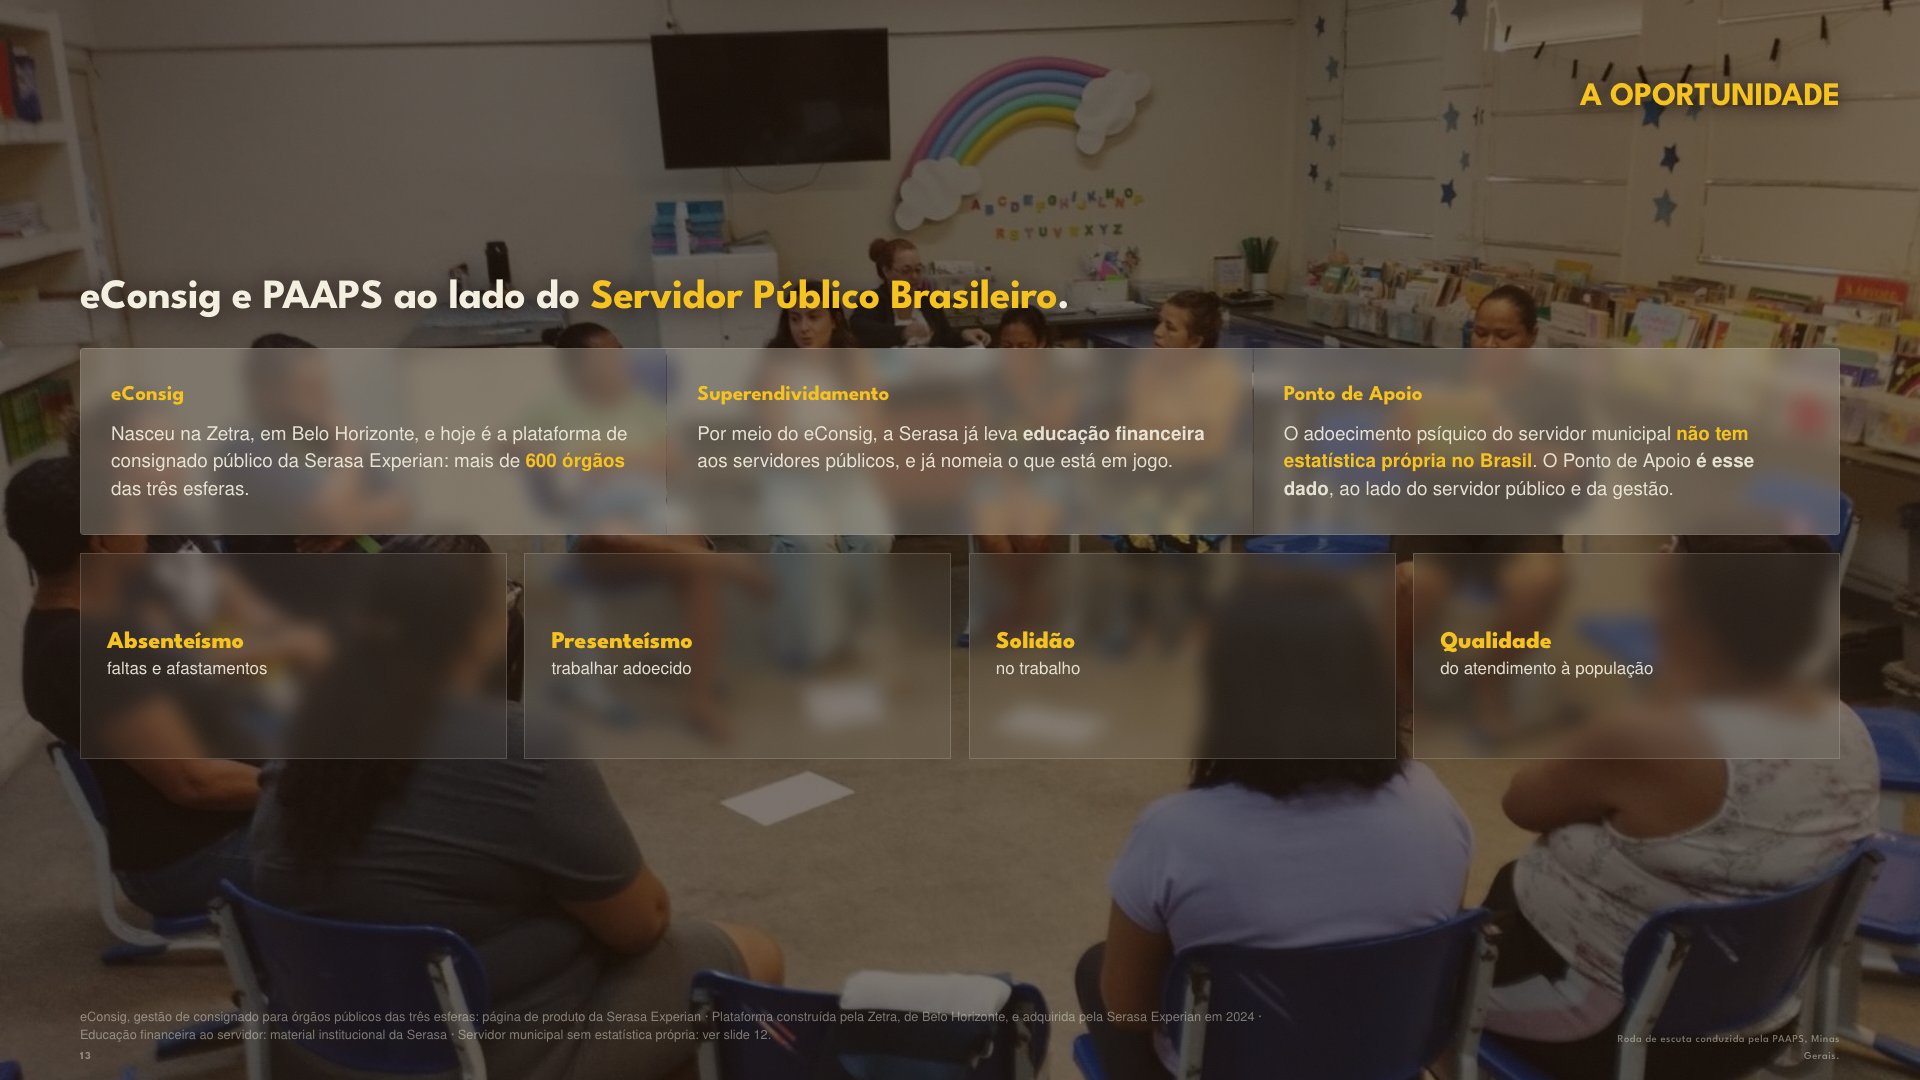
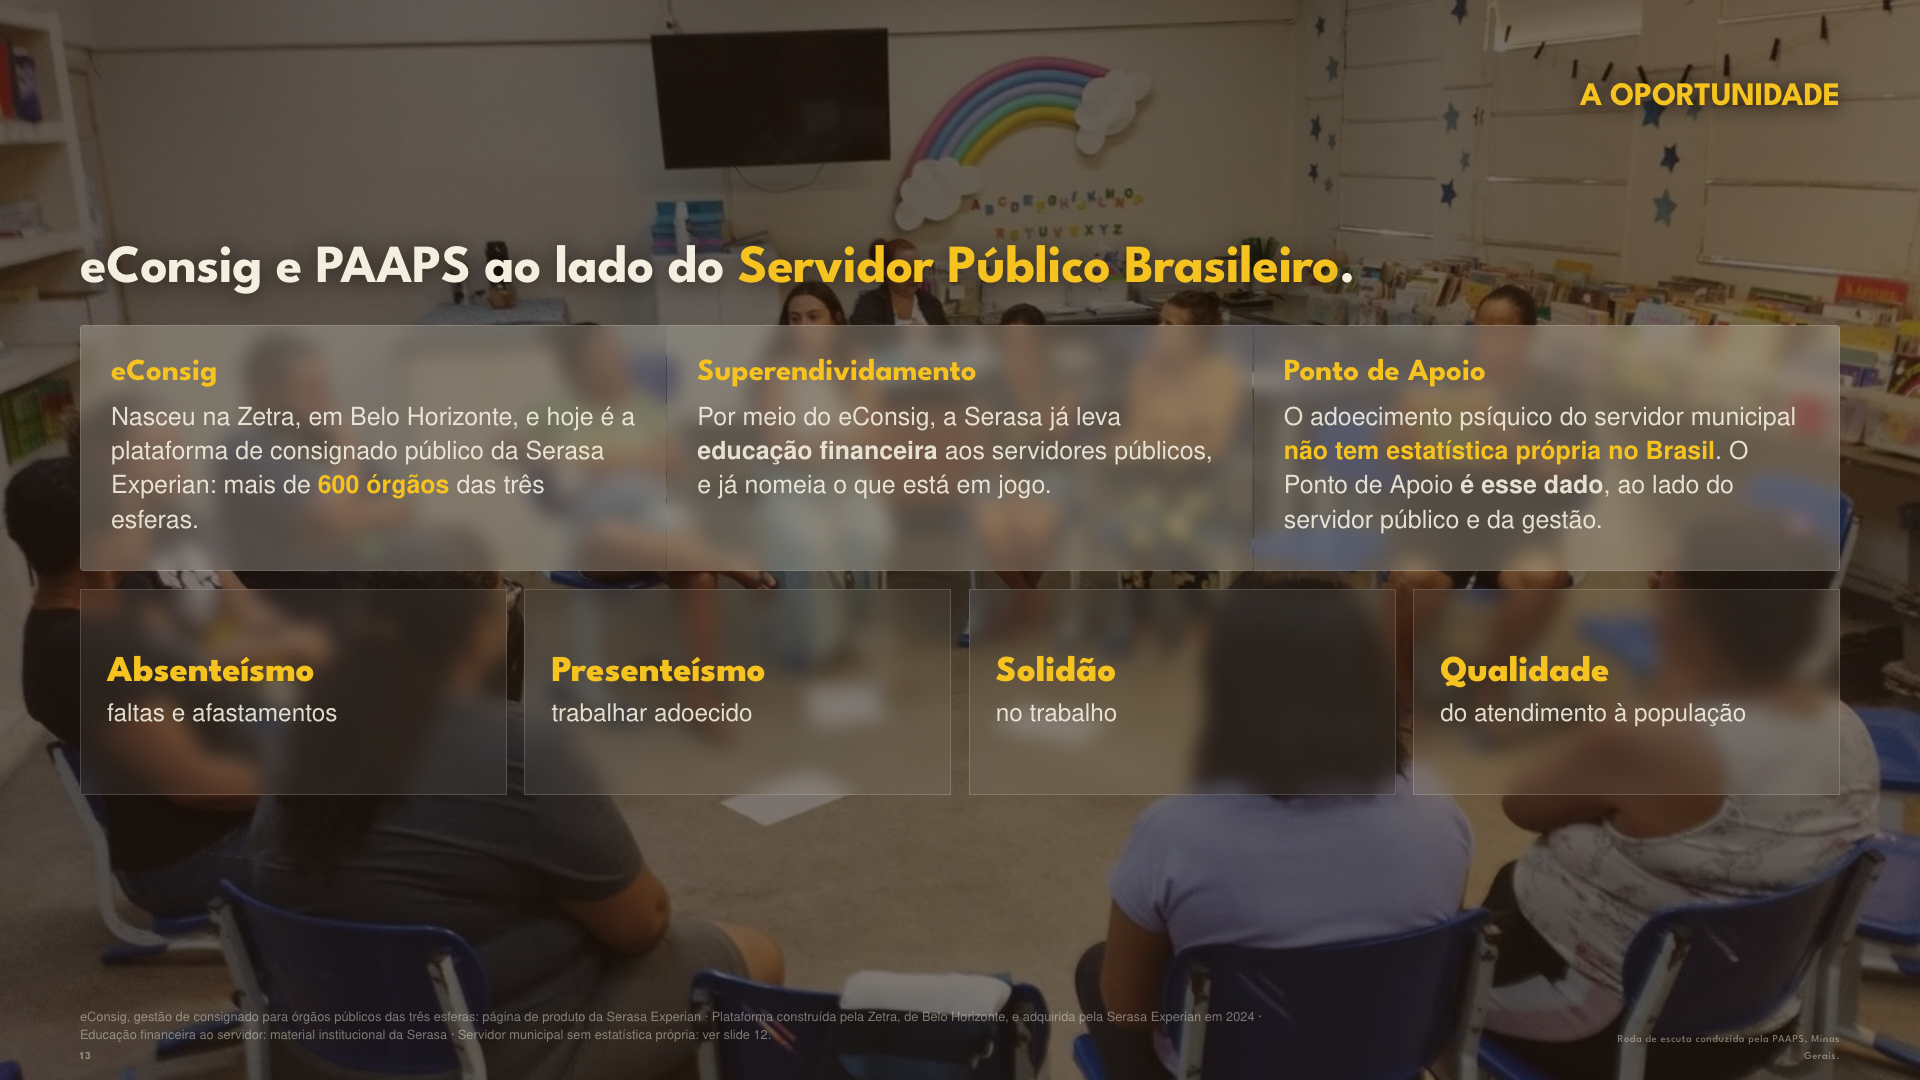
auto: codigo - 2026-08-23 12:53

diff --git a/codigo/site/pitch-serasa/pitch.css b/codigo/site/pitch-serasa/pitch.css
@@ -2129,7 +2129,8 @@ html{font-size:clamp(10px,calc(min(100vw,100vh * 16 / 9) / 80),16px)}
    2. as quatro caixas do que e medido crescem ate o mesmo peso visual da fileira
       de cima, entao deixam de ser chips em linha e viram grade de quatro colunas. */
 #s13p .cel__t{text-transform:none;letter-spacing:0;color:var(--amarelo);
-  font-size:clamp(.95rem,1.32vw,1.32rem);margin-bottom:.45em}
+  font-size:clamp(1.34rem,1.92vw,1.92rem);margin-bottom:.4em;line-height:1.1}
+#s13p .cel__l{font-size:clamp(1.16rem,1.56vw,1.56rem);line-height:1.38}
 #s13p .pedido--g{
   display:grid;grid-template-columns:repeat(4,1fr);
   gap:clamp(.6rem,1.1vw,1.1rem);margin-top:clamp(.6rem,1.1vw,1.1rem);
@@ -2138,7 +2139,7 @@ html{font-size:clamp(10px,calc(min(100vw,100vh * 16 / 9) / 80),16px)}
   display:flex;flex-direction:column;justify-content:center;
   min-height:clamp(110px,12.9vw,206px);
   padding:clamp(14px,1.7vw,26px);border-radius:0;
-  font-size:clamp(.82rem,1.06vw,1.06rem);line-height:1.34;
+  font-size:clamp(1.14rem,1.52vw,1.52rem);line-height:1.28;
   color:var(--creme-90);
 }
-#s13p .pedido--g b{font-size:1.42em;margin-bottom:.2em}
+#s13p .pedido--g b{font-size:1.5em;margin-bottom:.22em;line-height:1.08}

diff --git a/codigo/site/pitch-serasa/index-v4.html b/codigo/site/pitch-serasa/index-v4.html
@@ -388,7 +388,7 @@
   <div class="slide__foto"><img src="../home/img/paaps/roda-escuta-grupo.jpg" alt="Roda de escuta com trabalhadores da rede publica"></div>
   <p class="canto rev">A oportunidade</p>
   <div class="slide__c c--centro">
-    <h2 class="t-fluxo rev rev--1" style="font-size:clamp(1.5rem,2.6vw,2.6rem);max-width:none">eConsig e PAAPS ao lado do <span class="destaque">Servidor Público Brasileiro</span>.</h2>
+    <h2 class="t-fluxo rev rev--1" style="font-size:clamp(1.9rem,3.35vw,3.35rem);max-width:none">eConsig e PAAPS ao lado do <span class="destaque">Servidor Público Brasileiro</span>.</h2>
     <div class="grade grade--3 rev rev--2">
       <div class="cel">
         <p class="cel__t">eConsig</p>
